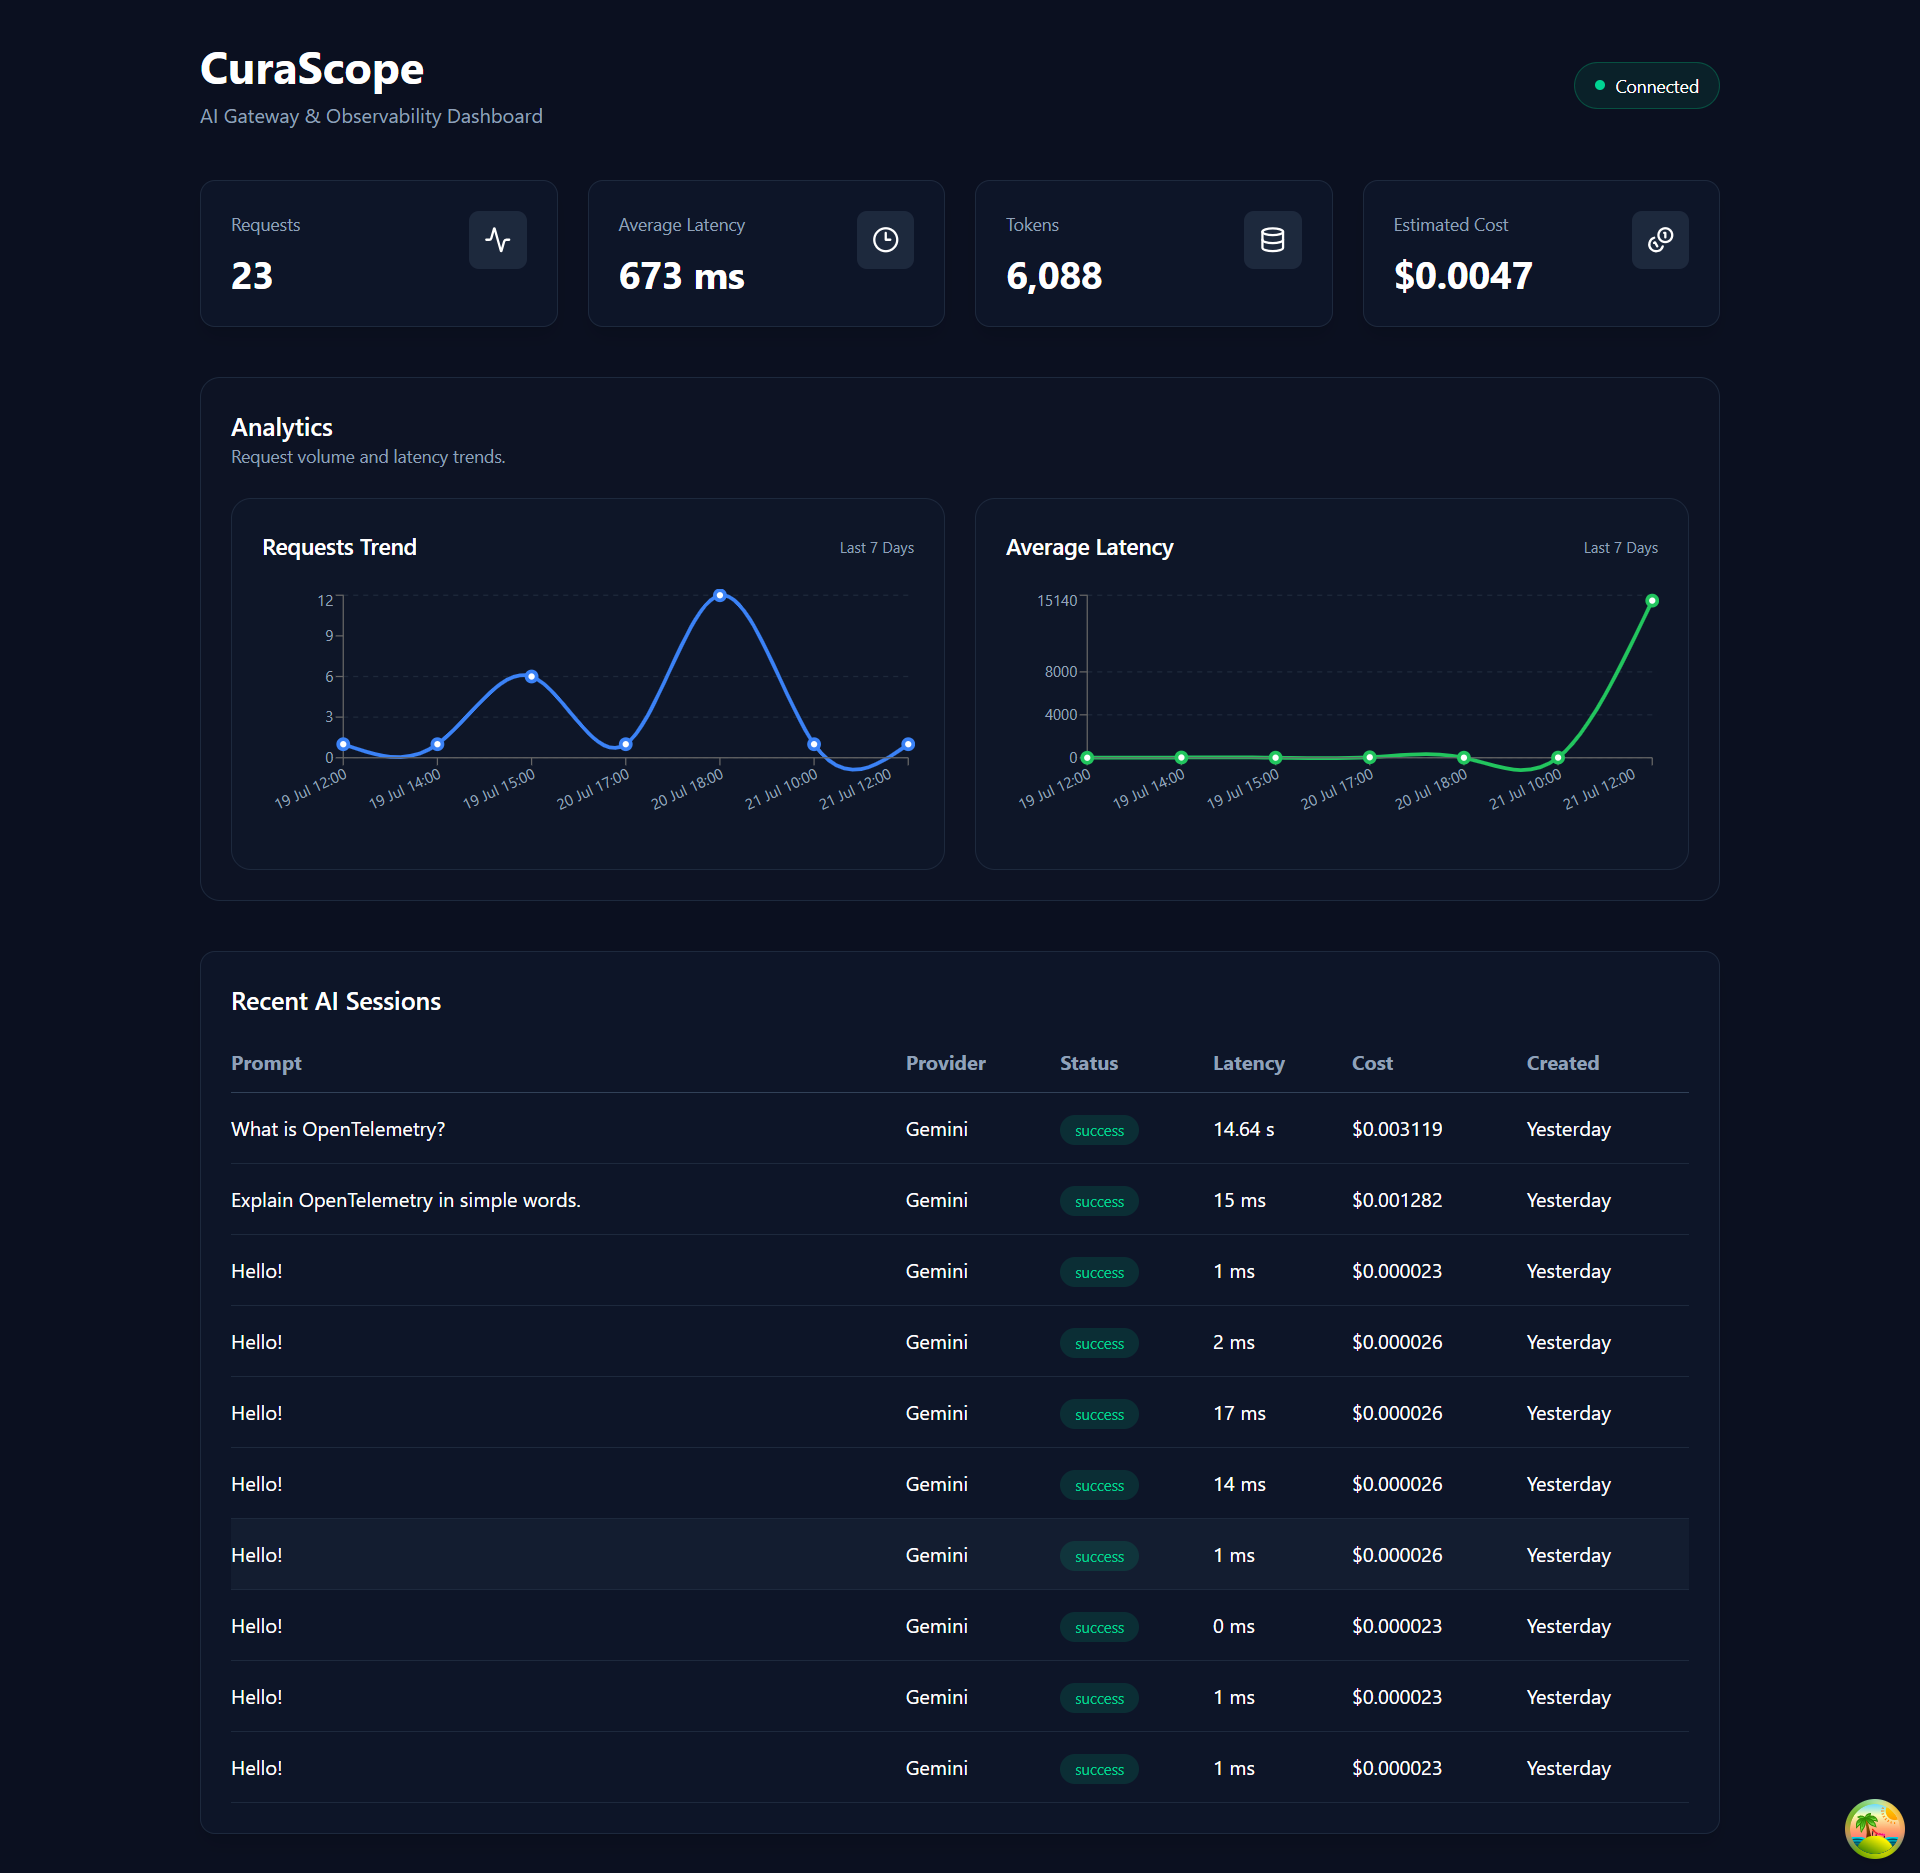
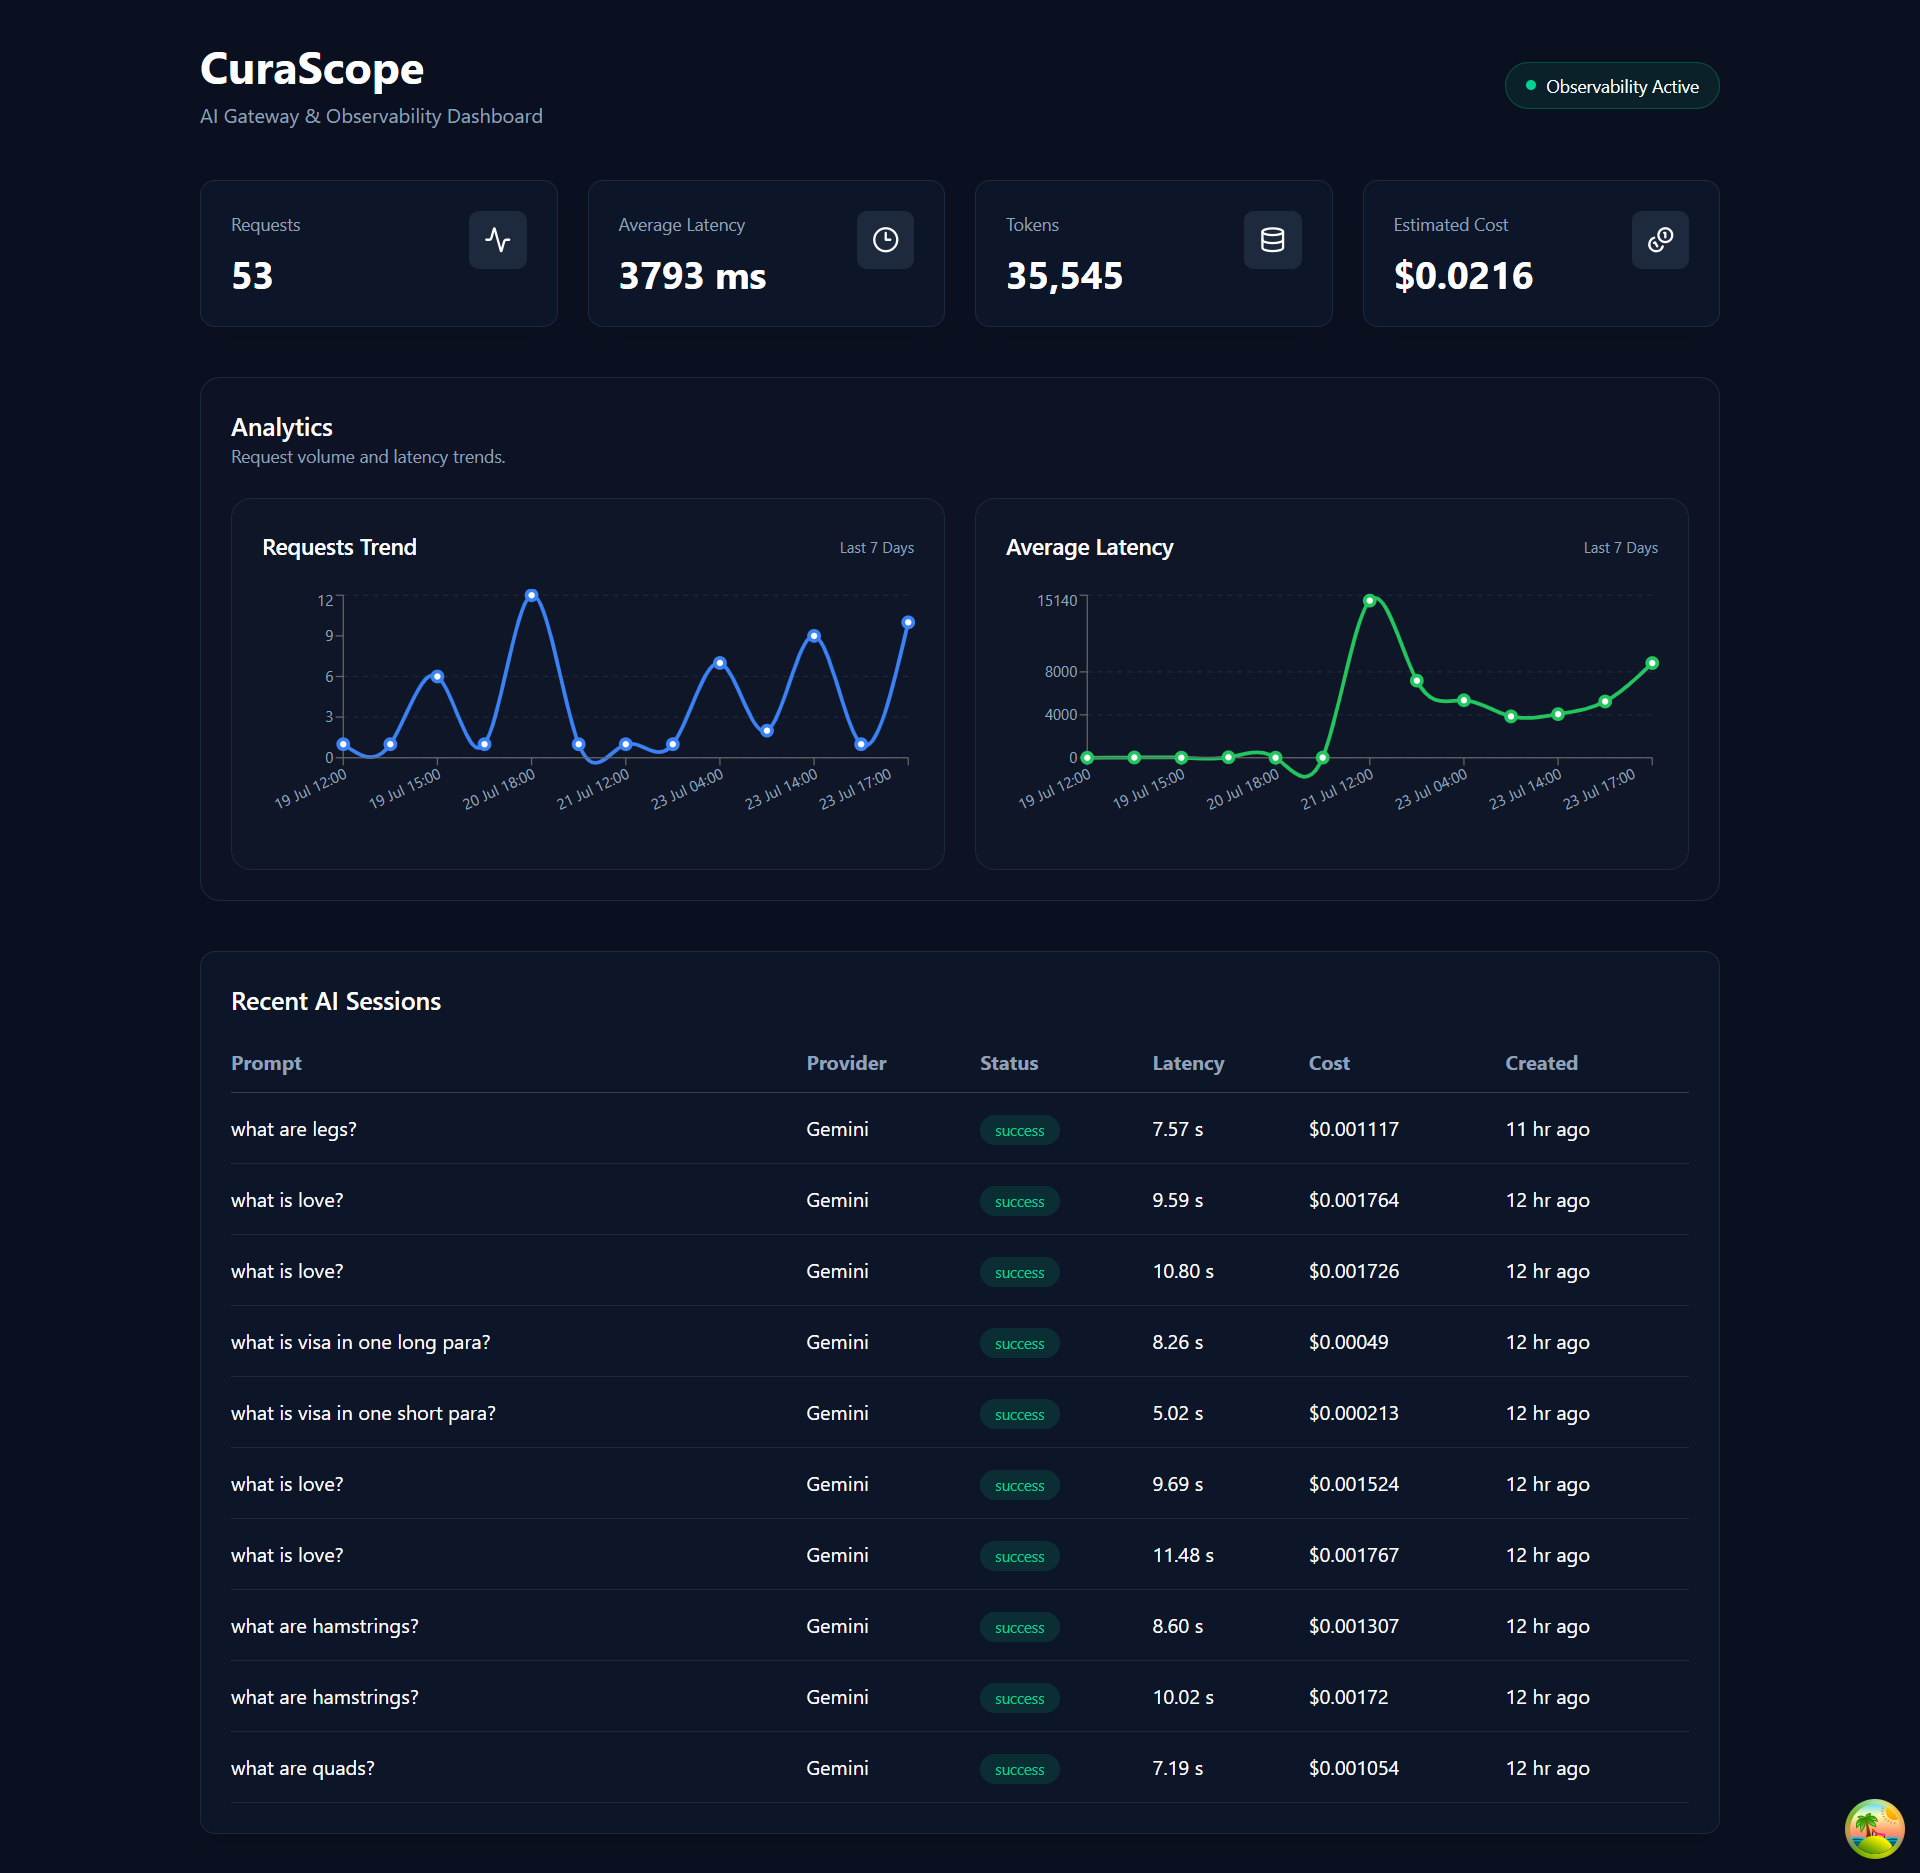
style: refine landing page layout and architecture section

diff --git a/apps/dashboard/src/components/landing/Hero.tsx b/apps/dashboard/src/components/landing/Hero.tsx
@@ -18,9 +18,9 @@ export function Hero() {
                 <div>
 
                     <h1 className="mt-4 text-6xl font-bold leading-tight">
-                        AI Gateway
+                        Secure, Observe and Debug 
                         <br />
-                        Observability Platform
+                        Every AI Request
                     </h1>
 
                     <p className="mt-6 text-xl leading-8 text-slate-400">
